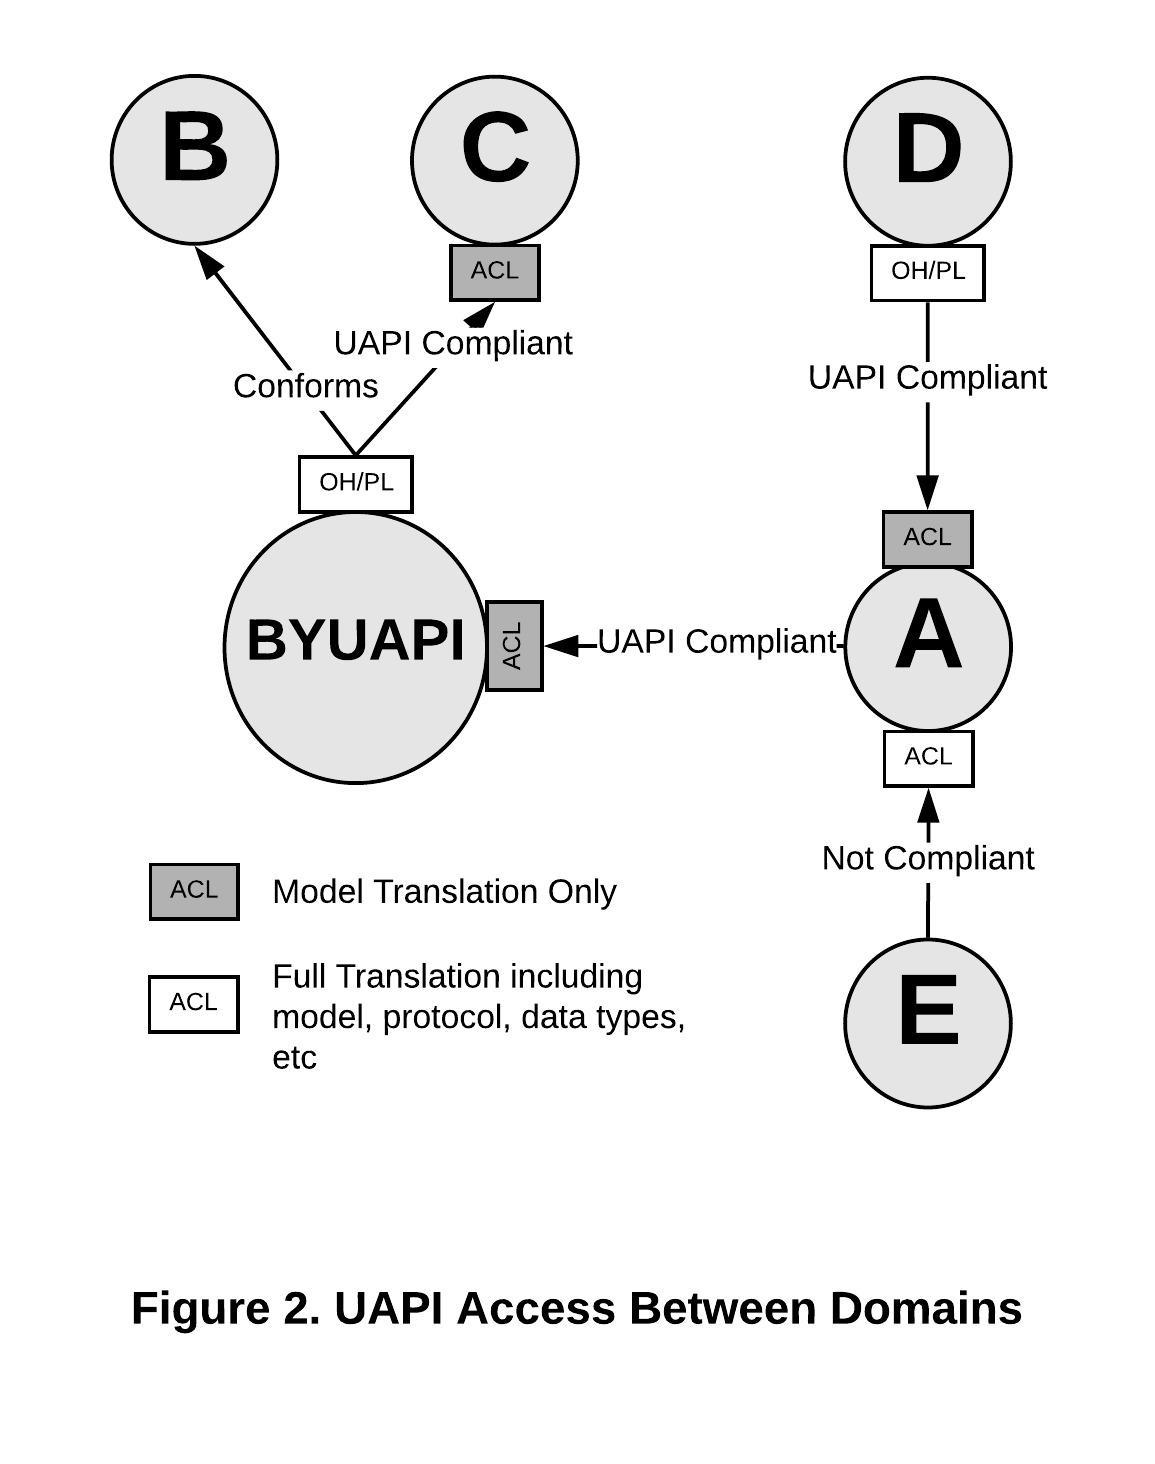
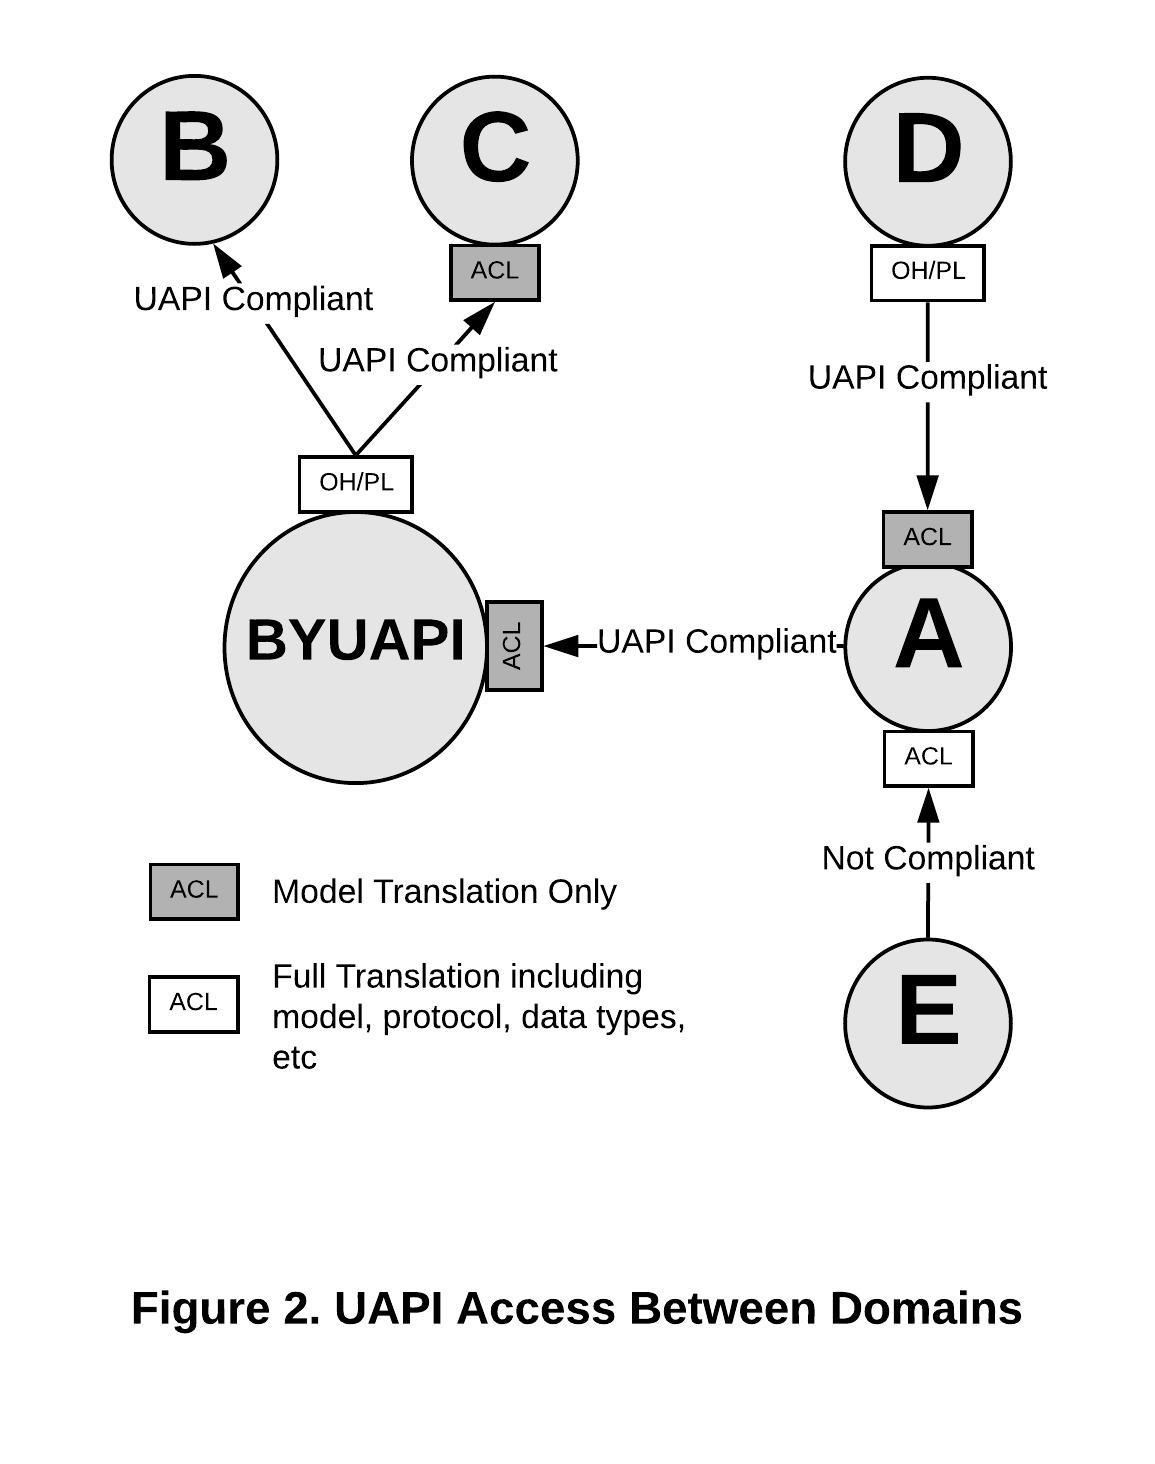
Modified from feedback from the UAPI meeting

Changed region(s): [[0.1247, 0.1537, 0.4987, 0.3074]]

diff --git a/UAPI and Domain Services.md b/UAPI and Domain Services.md
@@ -7,11 +7,15 @@ The University API (UAPI) specification is intended to bring a level of standard
 
 Domains are organized around business systems or processes. Very few domains can function without data from other domains. APIs are the preferred method of accessing data from another domain. Direct database access should only be used in exceptional circumstances and with approval of all parties involved.  
 
+## What is a Domain?
+
+BYU OIT has adopted [Domain Driven Design (DDD)](https://en.wikipedia.org/wiki/Domain-driven_design)(Evans, E 2004) as a model for how we model systems and the interactions between systems. Domains are a central part of DDD. In the DDD vocabulary a domain is "A sphere of knowledge, influence, or activity." (Evans, 2004, p. 512) BYU has divided up its development efforts into a number of domain teams, each responsible for some aspect of the business of the university (the domain). In a practice some development teams are dedicated to a single domain while others are responsible for multiple domains. In this discussion the term "domain" refers to some aspect of university business implemented in software that have a need to interact with other software systems (other domains) in order to perform their business function. Since teams can and are reorganized on a regular basis and responsibility for domains may be moved from one team to another, the fact that a team is responsible for a single domain or multiple domains is not relevant to the discussion as to how domains should interact.  
+
 ### Sharing Data Between Domains
 
-[Domain Driven Design](https://en.wikipedia.org/wiki/Domain-driven_design) specifies a number of strategies for domains to communicate with each other. Among them are Conformist, AntiCorruption Layers, and Open Host/Published Language. 
+DDD specifies a number of strategies for domains to communicate with each other. Among them are Conformist, AntiCorruption Layers, and Open Host/Published Language. (Evans, 2004, p 331)
 
-In any real environment there are multiple layers to these interactions. The technical level deals with the protocols, encodings, etc. used in the interaction. The model level specifies the translations between model elements such as data definitions, concepts, relationships between data, etc. The UAPI Specification deals almost exclusively with the technical level of these interactions. The BYUAPI adds model level details to the interactions for each of the provided resources (and sub-resources). These details should be found in the Swagger definition files along with additional documentation provided to consumers. 
+In any real environment there are multiple layers to these interactions. The technical level deals with the protocols, encodings, etc. used in the interaction. The model level specifies the translations between model elements such as data definitions, concepts, relationships between data, etc. The UAPI Specification deals almost exclusively with the technical level of these interactions. The BYUAPI adds model level details to the interactions for each of the provided resources (and sub-resources). These details should be found in the Swagger definition files along with additional documentation provided by the publishers of the APIs. 
 
 #### Conformist
 
@@ -20,16 +24,15 @@ This tight coupling can be problematic for both consumer and provider depending 
 
 #### AntiCorruption Layer
 
-An AntiCorruption Layer (ACL) is built by the consumer to keep elements of the model of the provider domain from leaking into the consumer's domain. The ACL isolates the translation from supplier to consumer models to a single location within the consumer. ACLs are required for each relationship with a different supplier. ACLs can consist of multiple layers, such as a layer to interact with the supplier at the technical level and a separate translation later to map supplier model concepts into the model of the consumer. 
+An AntiCorruption Layer (ACL) is built by the consumer to keep any elements of the model of the provider domain from leaking into the consumer's domain. The ACL isolates the translation from producer to consumer models to a single location within the consumer. ACLs are required for each relationship with a different producer. ACLs can consist of multiple layers, such as a layer to interact with the producer at the technical level and a separate translation later to map producer model concepts into the model of the consumer. 
 
 #### Open Host / Published Language
 
-There are times when it makes sense for a domain to publish a single set of services tht all other domains can use. In DDD terms this is called an Open Host (OH). Any domain that wishes to interact with the provider domain does so through the services provided by the provider domain's Open Host. Tightly aligned with the Open Host is the concept of a Published Language. The supplier domain can publish a simplified and standardized description of their model that the Open Host will support. Consuming domains can then use the published language as the model their ACLs use. The provider is free to make modifications to their model as long as the Open Host and Published Language don't change. Changes to the Open Host or Published Language require coordination with all consumers, typically through a versioning/deprecation model. 
-
+There are times when it makes sense for a domain to publish a single set of services that all other domains can use. In DDD terms this is called an Open Host (OH). Any domain that wishes to interact with the provider domain does so through the provider domain's Open Host. Tightly aligned with the Open Host is the concept of a Published Language. The supplier domain can publish a simplified and standardized description of their model that the Open Host will support. Consuming domains can then use the published language as the model their ACLs use. The provider is free to make modifications to their model as long as the Open Host and Published Language don't change. Changes to the Open Host or Published Language require coordination with all consumers typically through a versioning/deprecation model. 
 
 ### Application to the BYUAPI, UAPI Specification and Domain APIs
 
-The BYUAPI is the implementation of the UAPI specification with BYU specific resources including Students, Employees, Persons, etc. The BYUAPI is implemented as a [facade](https://en.wikipedia.org/wiki/Facade_pattern) on the top of domain APIs. The UAPI specification allows consumers to conform to a single JSON and URL format and function when interacting with all compliant APIs. Domain APIs that are UAPI specification compliant are not necessarily part of the BYUAPI.
+The BYUAPI is the implementation of the UAPI specification with BYU specific resources including Students, Employees, Persons, etc. The BYUAPI is implemented as a [facade](https://en.wikipedia.org/wiki/Facade_pattern) on the top of domain APIs and can be considered an Open Host/Published Language implementation. The UAPI specification allows consumers to conform to a single JSON and URL format and function when interacting with all compliant APIs. Domain APIs that are UAPI specification compliant are not necessarily part of the BYUAPI.
 
 ![Figure 1](./images/direct-domain-access.jpeg "Figure 1")
 
@@ -39,7 +42,7 @@ Consider the above example. Domain A provides APIs to domains B and C and consum
 
 Now consider how the relationships change if some or all domains conform to the UAPI specification for cross-domain APIs and provide or consume APIs via the BYUAPI where possible. 
 
-The BYUAPI is an implementation of the Open Host/Published Language model. At a technical level the UAPI specification provides a single technical specification that all compliant APIS. The BYUAPI specifies the model for any provided resources provided by those APIs. 
+The BYUAPI is an implementation of the Open Host/Published Language model. At a technical level the UAPI specification provides a single technical specification that all compliant APIs follow. The BYUAPI specifies the model for any provided resources provided by those APIs. 
 
 Domain A has chosen to provide its resources to the BYUAPI via a UAPI compliant implementation. This simplifies the ACL the BYUAPI must implement to include only a translation between the domain model and the BYUAPI model. Domain D has chosen to conform to the UAPI specification for the technical aspects of the APIs, providing an Open Host and Published Language. This means that in order to consume the resources provided by domain D, domain A's ACL simply needs to handle translation between models. A reusable piece of code could be used for all UAPI compliant interactions. Domain E has chosen not to be compliant to the UAPI specification. This requires domain A to implement a unique ACL for domain E that includes both technical and model translations. 
 
@@ -49,15 +52,15 @@ Domain C has unique requirements for its model that prevent it from being able t
 
 ## Implications Of Varying From The Specification
 
-In general any externally consumable APIs provided by a domain should conform to as much of the UAPI specification as possible even if it is not technically part of the BYUAPI. 
+In general any externally consumable APIs provided by a domain should conform to the UAPI specification to the extent possible even if it is not technically part of the BYUAPI. 
 
 ### BYUAPI Implications
 
-The BYUAPI owns no domain data. BYUAPI provided resources are aggregations of data from a number of underlying domains. The closer the APIs from the underlying domains follow the UAPI specification the less work the BYUAPI facade layer has to do. If the domain API is fully compliant the API Manager may be the only part of the facade necessary. 
+The BYUAPI owns no domain data. BYUAPI provided resources are aggregations of data from a number of underlying domains. The closer the APIs from the underlying domains follow the UAPI specification the less work the BYUAPI facade layer has to do.
 
 ### Domain Implications
 
-Domains seldom exist in isolation. Within a domain the team is free to choose whatever type of interaction that meets their needs. But when a domain team chooses to provide their own specifications for interaction with other domains they increase the workload of other domains and also require those domains to be tightly coupled which complicates things in the future. 
+Domains seldom exist in isolation. Within a domain the team is free to choose whatever type of interaction that meets their needs. But when a domain team chooses to provide their own specifications for interaction with other domains they increase the workload of other domains and also require tight coupling which complicates future changes. Assuming the domain team is trying to be good university citizens they may have to coordinate with a large number of consuming domains in order to make changes to their API without breaking those consumers.
 
 ## Domain API Implementation Details
 
@@ -72,4 +75,8 @@ The *domain\_name* portion of the Domain API URL namespace is determined by the 
 
 ### API Management
 
-Domain APIs provided for use by other domains and the BYUAPI are required to be managed by the API Manager. Intra-domain APIs that are exclusively used within a domain can be managed by the API Manager but are not required to be. If the domain team chooses to not use the API Manager they still should address authorization, authentication, and monitoring.
+Domain APIs provided for use by other domains and the BYUAPI are required to be managed by the API Manager. Intra-domain APIs that are exclusively used within a domain can be managed by the API Manager but are not required to be. If the domain team chooses to not use the API Manager for intra-domain APIs they assume the responsibility for addressing authorization, authentication, and monitoring within their domain.
+
+## References
+
+Evans, E 2004. Domain-Driven Design: Tackling Complexity in the Heart of Software. Pearson Education.
